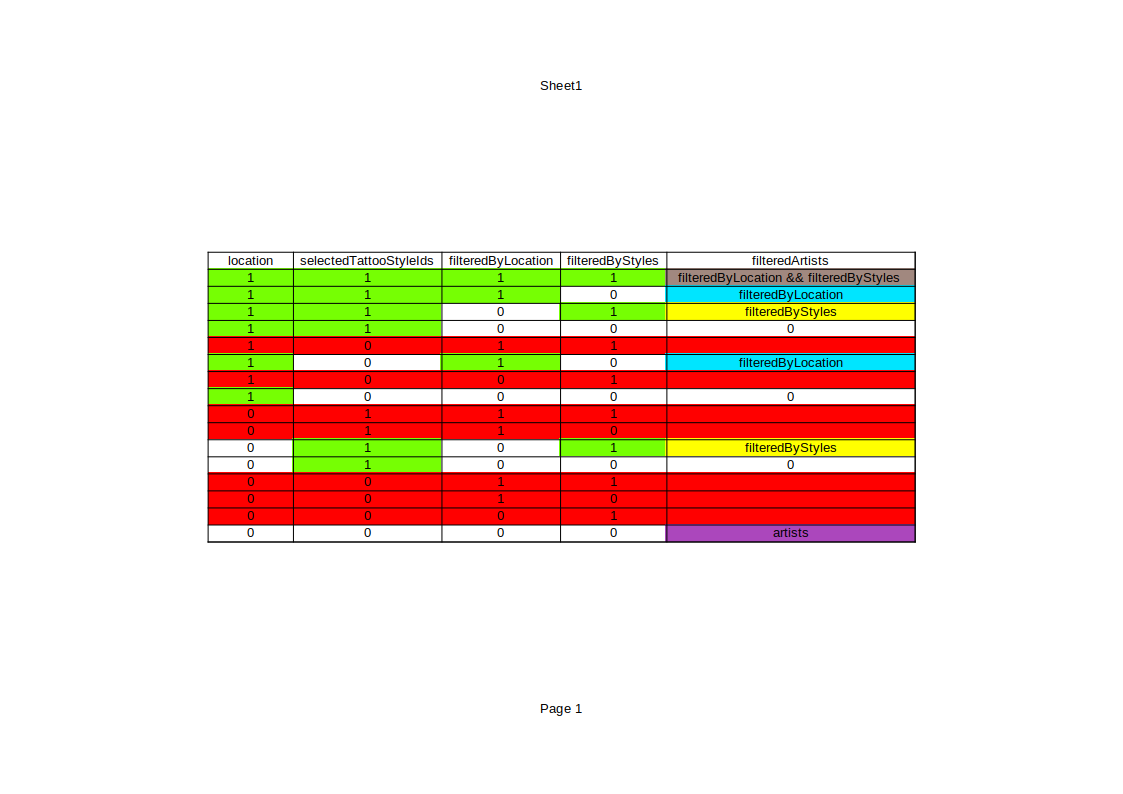
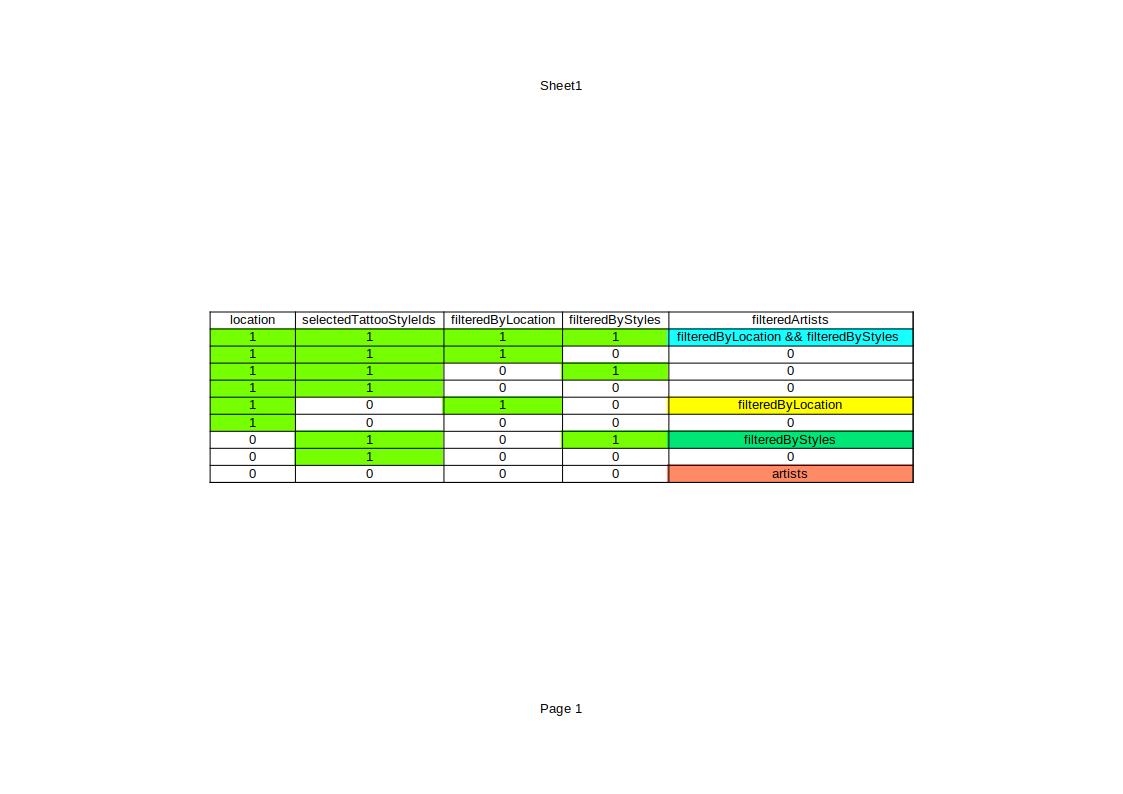
fixed artists filter

Changed region(s): [[0.187, 0.3023, 0.8415, 0.6952]]

diff --git a/frontend/src/components/artists/Artists.jsx b/frontend/src/components/artists/Artists.jsx
@@ -30,12 +30,7 @@ const Artists = ({ artist: { artists }, fetchArtists, history }) => {
 	}, [artists, filteredByLocation, filteredByStyles]);
 
 	const filter = () => {
-		if (
-			!location &&
-			isEmpty(selectedTattooStyleIds) &&
-			isEmpty(filteredByLocation) &&
-			isEmpty(filteredByStyles)
-		) {
+		if (!location && isEmpty(selectedTattooStyleIds)) {
 			setFilteredArtists([...artists]);
 		} else if (
 			location &&
@@ -49,32 +44,20 @@ const Artists = ({ artist: { artists }, fetchArtists, history }) => {
 			);
 			setFilteredArtists([...locationsAndStyles]);
 		} else if (
-			(location &&
-				isNotEmpty(selectedTattooStyleIds) &&
-				isNotEmpty(filteredByLocation) &&
-				isEmpty(filteredByStyles)) ||
-			(location &&
-				isEmpty(selectedTattooStyleIds) &&
-				isNotEmpty(filteredByLocation) &&
-				isEmpty(filteredByStyles))
+			location &&
+			isEmpty(selectedTattooStyleIds) &&
+			isNotEmpty(filteredByLocation) &&
+			isEmpty(filteredByStyles)
 		) {
 			setFilteredArtists([...filteredByLocation]);
 		} else if (
-			(location &&
-				isNotEmpty(selectedTattooStyleIds) &&
-				isEmpty(filteredByLocation) &&
-				isNotEmpty(filteredByStyles)) ||
-			(!location &&
-				isNotEmpty(selectedTattooStyleIds) &&
-				isEmpty(filteredByLocation) &&
-				isNotEmpty(filteredByStyles))
+			!location &&
+			isNotEmpty(selectedTattooStyleIds) &&
+			isEmpty(filteredByLocation) &&
+			isNotEmpty(filteredByStyles)
 		) {
 			setFilteredArtists([...filteredByStyles]);
-		} else if (
-			(location || isNotEmpty(selectedTattooStyleIds)) &&
-			isEmpty(filteredByLocation) &&
-			isEmpty(filteredByStyles)
-		) {
+		} else {
 			setFilteredArtists([]);
 		}
 	};

diff --git a/frontend/src/components/studios/Studios.jsx b/frontend/src/components/studios/Studios.jsx
@@ -33,10 +33,10 @@ const Studios = ({ studio: { studios }, fetchStudios, history }) => {
 				studio.location.region === region &&
 				studio.location.country === country
 		);
+		setFilteredStudios([...filteredByLocation]);
 		setSearchedTitle(
 			`Find tattoo studios in ${city} - ${region}, ${country}`
 		);
-		setFilteredStudios([...filteredByLocation]);
 	};
 
 	const cleanSearchHandler = () => {
